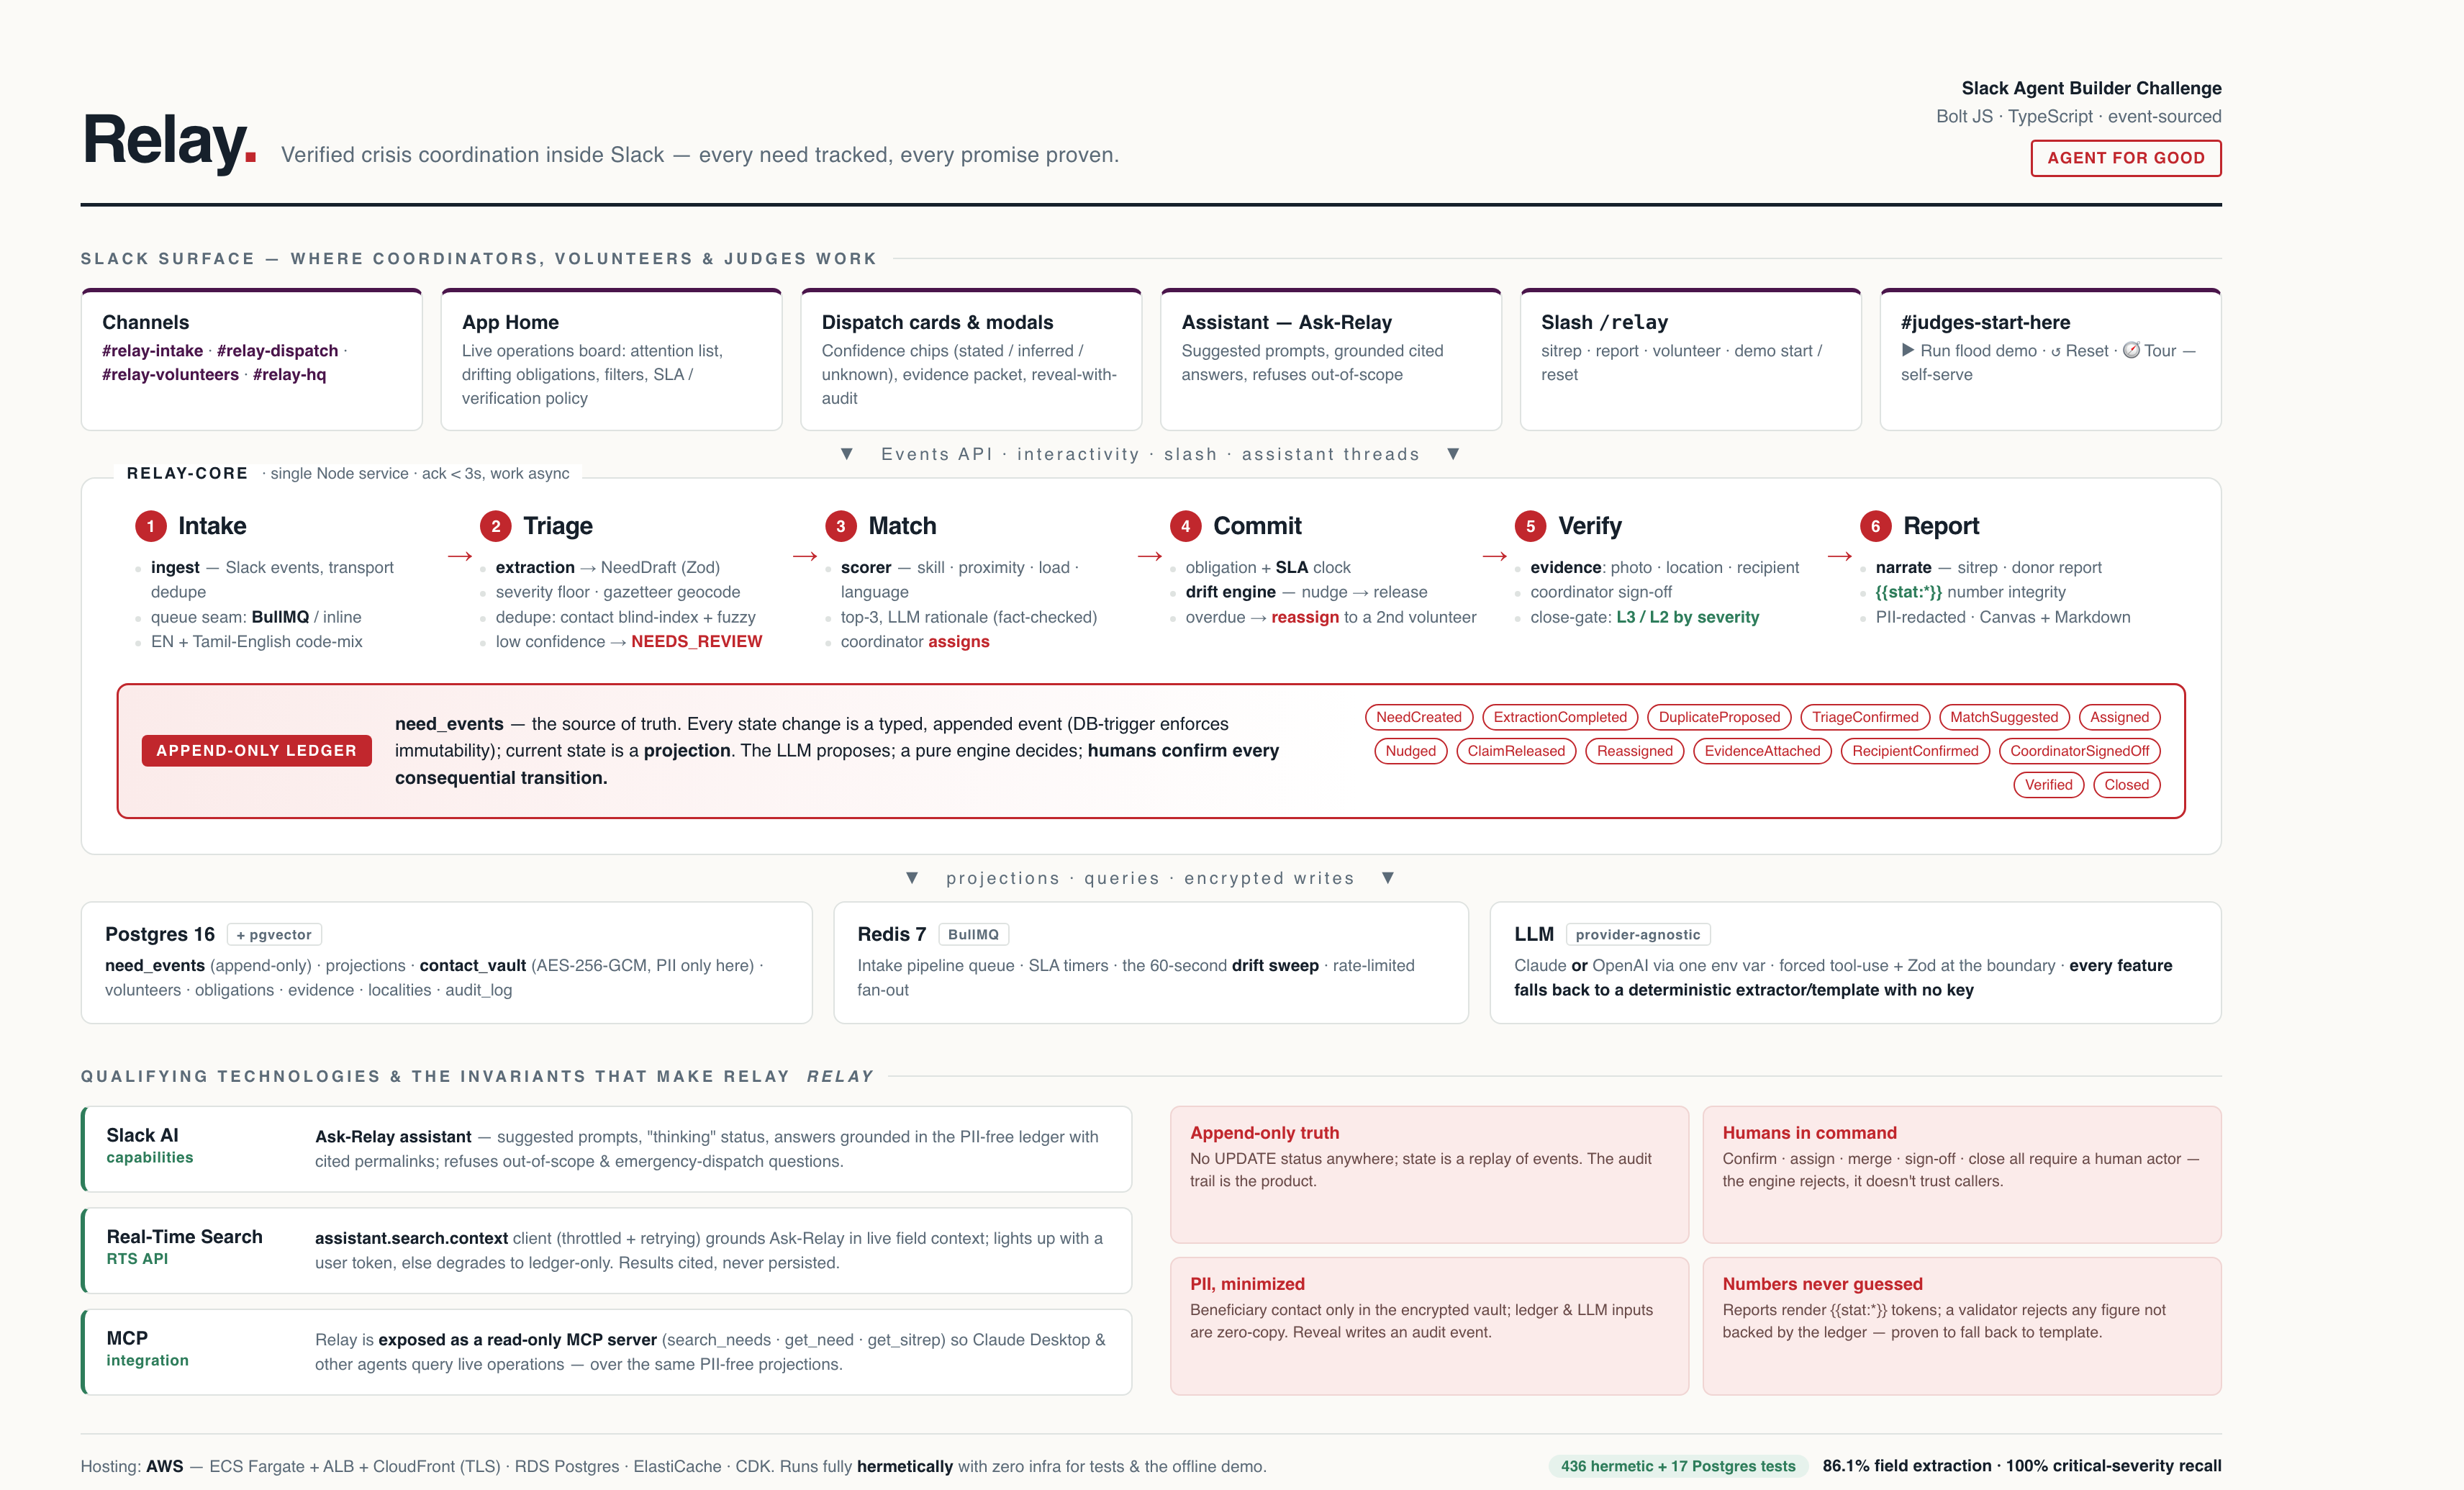
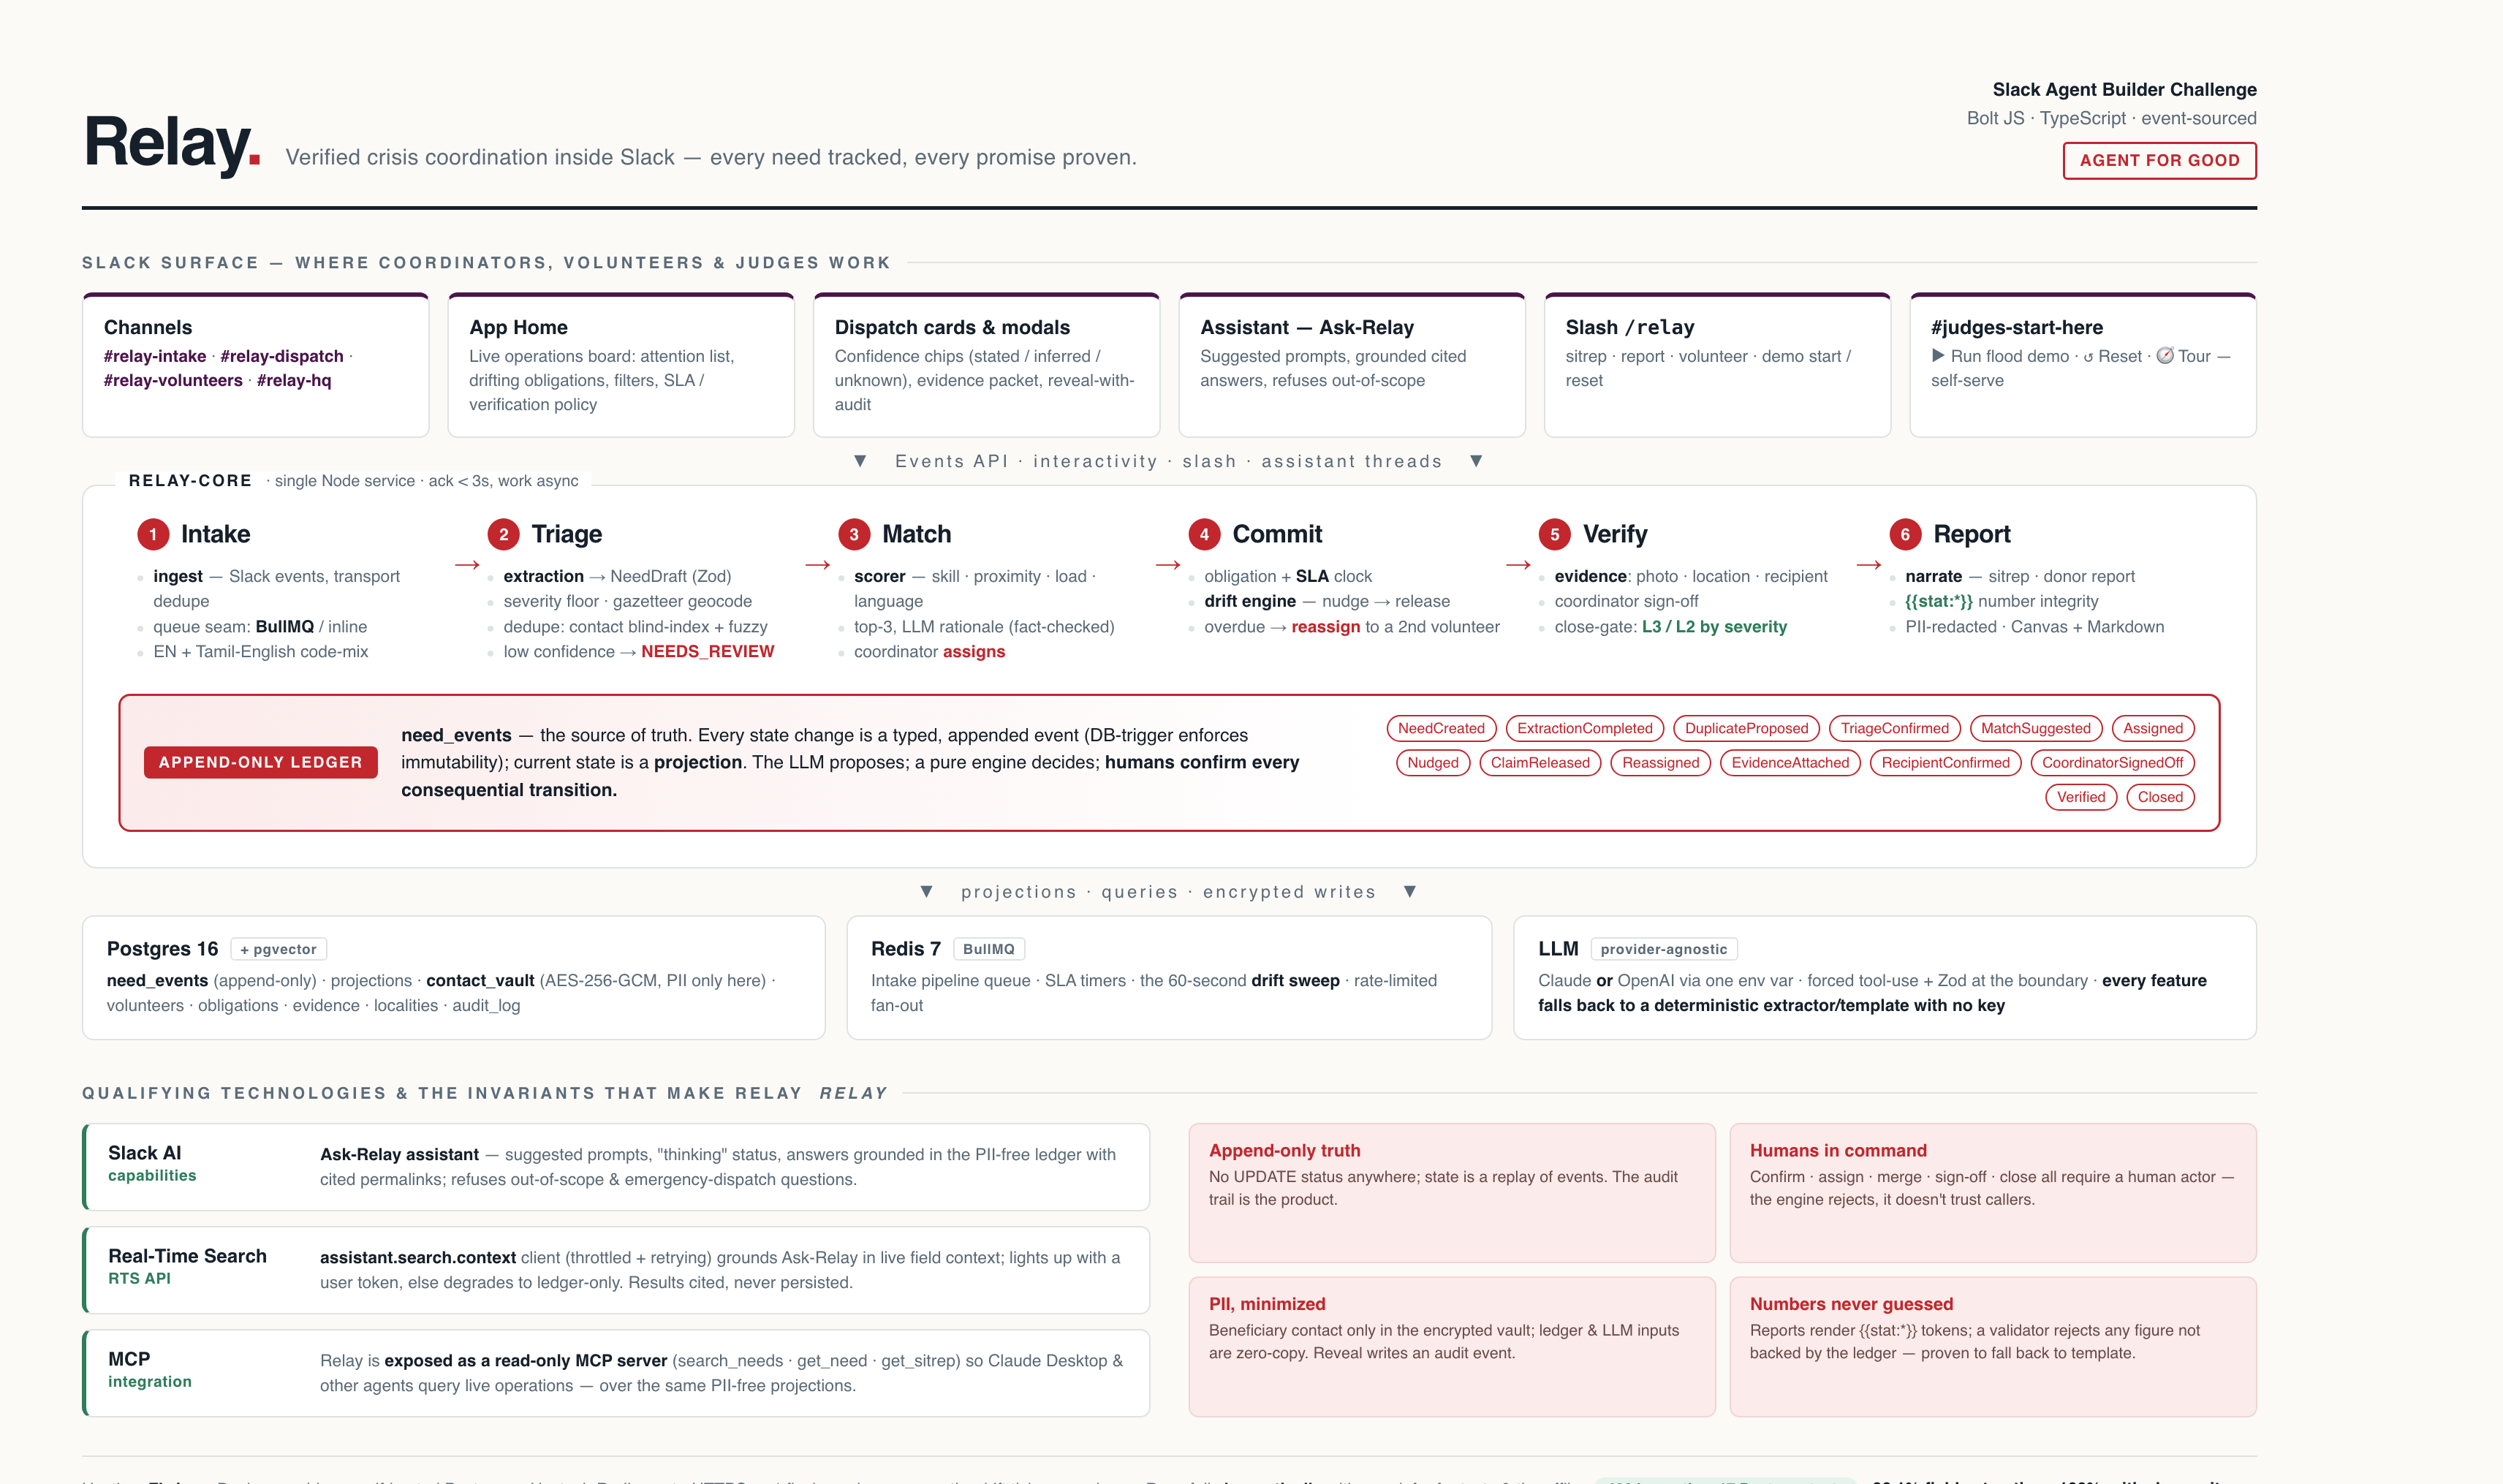
Move deployment from AWS to Fly.io (AWS account-restricted)
pgvector is now OPTIONAL: migration 001 wraps CREATE EXTENSION vector in a
tolerant DO block and adds the embedding column + HNSW index only when pgvector
is installed; postgresStore detects needs.embedding at runtime and stays on
pg_trgm when absent. Proven: migrations 001+002+003 apply cleanly on a plain
postgres:16-alpine (no pgvector) and the store logs 'embedding dedupe disabled'
without throwing — so the app boots on a plain self-hosted Fly Postgres.

Fly config: fly.toml (relay-crisis, region sin, always-on min_machines_running=1
so the drift tick/scheduler never sleep, deep /healthz check, 1GB for
tsx-at-runtime) + docs/DEPLOY.md runbook. CloudFront dropped — Fly gives *.fly.dev
HTTPS out of the box. deploy.yml rewritten for flyctl (FLY_API_TOKEN-gated).
manifest.prod → relay-crisis.fly.dev. All AWS hosting claims updated to Fly
across README/BUILD-DOC/SUBMISSION/SETUP/CLAUDE + the architecture diagram; the
AWS CDK in infra/ retained as an archived, portable alternative.

~$10-13/mo all-Fly vs ~$55/mo AWS. 436 hermetic + 17 integration tests green.

diff --git a/src/ledger/store/postgresStore.ts b/src/ledger/store/postgresStore.ts
@@ -1,4 +1,5 @@
 import pg from 'pg';
+import { logger } from '../../lib/logger';
 import { assertNoRawContent, type NeedEvent } from '../events';
 import type { Actor, ActorType, ProjectionCache } from '../types';
 import { ConcurrencyError } from './errors';
@@ -40,6 +41,13 @@ const INSERT_EVENT = `INSERT INTO need_events
  */
 export class PostgresEventStore implements EventStore {
   private readonly pool: pg.Pool;
+  /**
+   * Whether needs.embedding exists — i.e. pgvector was present at migrate time (001 adds
+   * the column only when the `vector` extension installs). null = not yet detected. On a
+   * plain Postgres (self-hosted Fly) the column is absent, so the vector dedupe path is
+   * skipped and dedupe uses pg_trgm. Detected once via information_schema, then cached.
+   */
+  private hasEmbedding: boolean | null = null;
 
   constructor(opts: { connectionString?: string; pool?: pg.Pool } = {}) {
     this.pool = opts.pool ?? new Pool({ connectionString: opts.connectionString });
@@ -48,6 +56,30 @@ export class PostgresEventStore implements EventStore {
   /** Create the public_id sequence if needed (the schema migration owns the tables). */
   async init(): Promise<void> {
     await this.pool.query('CREATE SEQUENCE IF NOT EXISTS needs_public_seq START 1');
+    // Warm the pgvector-presence cache at boot so the mode is logged once and every
+    // later dedupe call is a cache hit. Never fatal: absence just means the pg_trgm path.
+    const hasEmbedding = await this.embeddingAvailable();
+    logger.info(
+      { hasEmbedding },
+      `postgres store: embedding dedupe ${hasEmbedding ? 'enabled' : 'disabled (pg_trgm)'}`,
+    );
+  }
+
+  /**
+   * Does the needs.embedding column exist? Queried once from information_schema and
+   * cached. When absent (no pgvector), callers skip the ::vector cast and the embedding
+   * SELECT so a missing column can NEVER throw — dedupe degrades to pg_trgm.
+   */
+  private async embeddingAvailable(): Promise<boolean> {
+    if (this.hasEmbedding === null) {
+      const res = await this.pool.query(
+        `SELECT 1 FROM information_schema.columns
+          WHERE table_schema = current_schema() AND table_name = 'needs' AND column_name = 'embedding'
+          LIMIT 1`,
+      );
+      this.hasEmbedding = (res.rowCount ?? 0) > 0;
+    }
+    return this.hasEmbedding;
   }
 
   private static rowToEvent(row: EventRow): NeedEvent {
@@ -221,7 +253,11 @@ export class PostgresEventStore implements EventStore {
       vals.push(keys.dedupeText);
       sets.push(`dedupe_text = $${vals.length}`);
     }
-    if (keys.embedding !== undefined) {
+    // Touch the embedding column ONLY when pgvector added it (see 001 migration). On a
+    // plain Postgres the column is absent; the embedding is silently ignored — the vector
+    // path is dormant without an embeddings key anyway — while contact_hash + dedupe_text
+    // still persist. contact_hash + dedupe_text are enough for the pg_trgm dedupe path.
+    if (keys.embedding !== undefined && (await this.embeddingAvailable())) {
       // pgvector accepts the textual form '[1,2,3]'; null clears the column.
       vals.push(keys.embedding === null ? null : `[${keys.embedding.join(',')}]`);
       sets.push(`embedding = $${vals.length}::vector`);
@@ -231,6 +267,12 @@ export class PostgresEventStore implements EventStore {
   }
 
   async findDedupeCandidates(q: DedupeCandidateQuery): Promise<DedupeCandidate[]> {
+    // Reference the embedding column only when pgvector added it; on a plain Postgres the
+    // column doesn't exist, so select a NULL placeholder — the JS cosine branch then stays
+    // off (both sides null) and dedupe falls back to the pg_trgm dedupe_text signal (see
+    // src/pipeline/dedupe.ts fuzzyScore). Behaviour is byte-identical when the column IS
+    // present. A constant, never user input — no injection surface.
+    const embeddingSelect = (await this.embeddingAvailable()) ? 'embedding' : 'NULL AS embedding';
     const res = await this.pool.query<{
       id: string;
       public_id: string;
@@ -239,7 +281,7 @@ export class PostgresEventStore implements EventStore {
       embedding: unknown;
       status: string;
     }>(
-      `SELECT id, public_id, contact_hash, dedupe_text, embedding, status
+      `SELECT id, public_id, contact_hash, dedupe_text, ${embeddingSelect}, status
          FROM needs
         WHERE type = $1
           AND status NOT IN ('DUPLICATE', 'CLOSED', 'CANCELLED', 'EXPIRED')

diff --git a/tests/integration/dedupe.integration.test.ts b/tests/integration/dedupe.integration.test.ts
@@ -13,6 +13,14 @@ import { migrate } from '../../src/lib/migrate';
 // findDedupeCandidates, plus the vector(1536) ::vector cast and pg_trgm). Skipped
 // unless DATABASE_URL is set. Needs are is_demo and purged in afterAll; the two
 // localities this file inserts are FK parents of those needs, deleted after the purge.
+//
+// This suite runs against pgvector (local docker compose, pgvector/pgvector:pg16), so the
+// embedding column exists and the vector path IS exercised here. pgvector is OPTIONAL in
+// production: on a plain Postgres (self-hosted Fly, no `vector` extension) 001 skips the
+// embedding column, and postgresStore guards both the ::vector write and the embedding
+// SELECT behind a cached column-presence check — dedupe degrades to pg_trgm and the app
+// still boots. That absent-pgvector branch is covered by the plain-Postgres migrate boot
+// check (see the verifier note), not by this suite (which needs pgvector present).
 const DB = process.env.DATABASE_URL;
 
 describe.skipIf(!DB)('Postgres dedupe (integration)', () => {

diff --git a/docs/architecture.html b/docs/architecture.html
@@ -224,7 +224,7 @@
   </div>
 
   <footer>
-    <div class="host">Hosting: <b>AWS</b> — ECS Fargate + ALB + CloudFront (TLS) · RDS Postgres · ElastiCache · CDK. Runs fully <b>hermetically</b> with zero infra for tests &amp; the offline demo.</div>
+    <div class="host">Hosting: <b>Fly.io</b> — Docker machine + self-hosted Postgres + Upstash Redis · auto-HTTPS on *.fly.dev · always-on so the drift tick never sleeps. Runs fully <b>hermetically</b> with zero infra for tests &amp; the offline demo.</div>
     <div><span class="pill green">436 hermetic + 17 Postgres tests</span> &nbsp; <span class="stamp">86.1% field extraction · 100% critical-severity recall</span></div>
   </footer>
 

diff --git a/docs/DEPLOY.md b/docs/DEPLOY.md
@@ -1,0 +1,152 @@
+# Relay — Fly.io deploy runbook
+
+The live, always-on target for the judging window (Jul 14 – Aug 6) is **Fly.io**.
+We moved off AWS because the AWS account is under an account-level restriction.
+
+Fly builds our repo-root `Dockerfile` and gives us an HTTPS `*.fly.dev` URL out of
+the box — so the old CloudFront layer (which existed only to hand Slack a TLS
+request URL) is dropped. Config lives in `fly.toml`. The archived AWS CDK stack is
+retained as a portable alternative under `infra/` (see `infra/README.md`).
+
+> None of this is needed for `npm test` / `npm run demo` — both run fully
+> hermetically with zero infra. This runbook is only for the hosted HTTP-mode app.
+
+## What runs where
+
+```
+Slack  ──https──▶  relay-crisis.fly.dev  (Fly machine, always-on, /healthz gated)
+                          ├─▶  Fly Postgres  (self-hosted, pgvector optional)
+                          └─▶  Upstash Redis (Fly extension, BullMQ)
+```
+
+- Auto-HTTPS on `*.fly.dev` — no CloudFront/ALB/cert to manage.
+- One machine pinned up (`min_machines_running = 1`, `auto_stop_machines = false`)
+  so the drift tick + BullMQ scheduler never sleep and the demo never cold-starts.
+- Schema migrations run on boot (`runStartupMigrations`, advisory-locked +
+  idempotent) before the app serves; a migration failure exits non-zero so a
+  schema-less machine never takes traffic.
+
+## Prerequisites
+
+```bash
+brew install flyctl        # or: curl -L https://fly.io/install.sh | sh
+fly auth login             # one browser round-trip; all resources on one account
+```
+
+## 1. Create the app
+
+```bash
+# From the repo root (fly.toml already declares app = 'relay-crisis'):
+fly apps create relay-crisis
+# — or, to let Fly reconcile the existing config without deploying yet:
+# fly launch --no-deploy --copy-config
+```
+
+## 2. Provision self-hosted Postgres
+
+Plain Fly Postgres is enough — Relay runs on it and dedupes via `pg_trgm`. The
+pgvector embedding path is **optional**: it activates only when `OPENAI_API_KEY`
+is set *and* the Postgres has the `vector` extension. Without either, dedupe falls
+back to `pg_trgm` and the app is fully functional.
+
+```bash
+fly postgres create --name relay-db --region sin --vm-size shared-cpu-1x --volume-size 10
+fly postgres attach relay-db --app relay-crisis
+# `attach` creates a DB user + sets the DATABASE_URL secret on relay-crisis.
+```
+
+To enable the embedding dedupe path later, exec into the pg instance and
+`CREATE EXTENSION vector;` (the boot migration also attempts it and degrades
+gracefully if the extension is unavailable).
+
+## 3. Provision Redis (Upstash — Fly extension)
+
+```bash
+fly redis create --name relay-redis --region sin
+# — or the extension form:
+# fly ext upstash-redis create --name relay-redis
+fly redis status relay-redis        # copy the redis:// URL
+fly secrets set REDIS_URL='redis://…' --app relay-crisis
+```
+
+The Upstash free tier is sufficient for demo/judging traffic.
+
+## 4. Set app secrets
+
+```bash
+fly secrets set --app relay-crisis \
+  SLACK_BOT_TOKEN='xoxb-…' \
+  SLACK_SIGNING_SECRET='…' \
+  OPENAI_API_KEY='sk-…' \
+  CONTACT_VAULT_KEY="$(openssl rand -hex 32)"
+```
+
+`DATABASE_URL` (step 2) and `REDIS_URL` (step 3) are already set. To use Claude
+instead of OpenAI, set `LLM_PROVIDER=anthropic` and `ANTHROPIC_API_KEY=sk-ant-…`
+(the seam handles it — see `src/llm/`). Setting secrets triggers a rolling
+restart, which is harmless before the first deploy.
+
+## 5. Deploy
+
+```bash
+fly deploy --remote-only        # builds the repo Dockerfile on Fly's builders
+```
+
+Migrations run automatically on boot — no separate migrate step. Watch the boot
+log to confirm `runStartupMigrations` completed and `/healthz` went green:
+
+```bash
+fly logs --app relay-crisis
+fly status --app relay-crisis
+```
+
+## 6. Point Slack at the Fly URL
+
+The app is served at **https://relay-crisis.fly.dev**. `manifest.prod.yaml`
+already targets that host (request URL `https://relay-crisis.fly.dev/slack/events`).
+Update the prod Slack app from the manifest (App config → App Manifest → paste),
+verify the Request URL, and reinstall if scopes changed.
+
+Health check:
+
+```bash
+curl -i https://relay-crisis.fly.dev/healthz     # 200 when pg + redis are reachable
+```
+
+## CI deploys
+
+`.github/workflows/deploy.yml` deploys on push to `main` touching `fly.toml`,
+`src/**`, or `Dockerfile` (and on manual `workflow_dispatch`). Set the deploy
+token once:
+
+```bash
+fly tokens create deploy -x 999999h        # or: fly auth token
+# → GitHub → repo Settings → Secrets and variables → Actions → new secret
+#   FLY_API_TOKEN = <the token>
+```
+
+The deploy step is guarded on `FLY_API_TOKEN` being present, so the workflow is a
+no-op on forks / until the secret is configured.
+
+## Cost estimate (~monthly)
+
+| Resource | Spec | Est. USD/mo |
+|---|---|---|
+| App machine | shared-cpu-1x / 1 GB, always-on | ~$5–6 |
+| Fly Postgres | shared-cpu-1x, 10 GB volume | ~$3–5 |
+| Upstash Redis | free tier | $0 |
+| **Total** | | **~$10–13/mo** |
+
+Roughly 5× cheaper than the old AWS stack (~$55/mo), and no NAT/ALB/CloudFront to
+reason about.
+
+## Teardown
+
+```bash
+fly apps destroy relay-crisis
+fly postgres detach relay-db --app relay-crisis   # if the app still exists
+fly apps destroy relay-db
+fly redis destroy relay-redis
+```
+
+Clean and complete — appropriate for a hackathon, not for production data.

diff --git a/docs/SETUP.md b/docs/SETUP.md
@@ -76,9 +76,21 @@ npm run eval             # extraction eval harness (needs the LLM key once P-1 l
 npm run scenario:lint    # validate scenario + eval set schemas
 ```
 
-## 8. Production (AWS) — later
+## 8. Production (Fly.io) — later
 
-Infra is code-complete in `infra/` (see `infra/README.md`). Deploy when the app is
-functional (~Day 2–3): `cd infra && npx cdk bootstrap && npx cdk deploy RelayStack RelayCiStack`.
-Then set the four Secrets Manager values, point `manifest.prod.yaml` at the CloudFront
-domain, and switch to the HTTP-mode prod app.
+The live host is **Fly.io** (AWS is account-restricted for this project). Full
+runbook: **`docs/DEPLOY.md`**. In short, from the repo root:
+
+```bash
+fly auth login
+fly apps create relay-crisis
+fly postgres create --name relay-db --region sin && fly postgres attach relay-db --app relay-crisis
+fly redis create --name relay-redis --region sin   # → set REDIS_URL secret
+fly secrets set --app relay-crisis SLACK_BOT_TOKEN=… SLACK_SIGNING_SECRET=… OPENAI_API_KEY=… CONTACT_VAULT_KEY="$(openssl rand -hex 32)"
+fly deploy --remote-only                            # migrations run on boot
+```
+
+`manifest.prod.yaml` already points at `https://relay-crisis.fly.dev/slack/events`;
+update the prod Slack app from the manifest and switch to the HTTP-mode app. The
+AWS CDK in `infra/` is retained only as a portable alternative (~$55/mo vs Fly's
+~$10–13/mo).

diff --git a/docs/BUILD-DOC.md b/docs/BUILD-DOC.md
@@ -267,7 +267,7 @@ Bolt-JS app (Node + TypeScript, single service "relay-core")
    └─ demo/          injector · reset · judge-tour handlers
 Postgres 16 (+ pgvector for dedupe embeddings) · Redis (BullMQ)
 Anthropic API (Claude) · Slack Web API
-Hosting: AWS (ECS Fargate + ALB + CloudFront, RDS, ElastiCache — see infra/) · UptimeRobot on /healthz (deep probe: `GET /healthz` actually queries Postgres + PINGs Redis and returns 503 when a wired dependency is down, so a dead pg/redis pulls the task from rotation instead of reporting a static 200). Schema migrations run on boot (`runStartupMigrations`, advisory-locked + idempotent) before the app serves; a migration failure exits non-zero so a schema-less task never takes traffic.
+Hosting: Fly.io (always-on Docker machine `min_machines_running=1` + self-hosted Fly Postgres + Upstash Redis, auto-HTTPS on `*.fly.dev` — see `fly.toml` + `docs/DEPLOY.md`; the AWS CDK in `infra/` is archived as a portable alternative because AWS is account-restricted) · UptimeRobot on /healthz (deep probe: `GET /healthz` actually queries Postgres + PINGs Redis and returns 503 when a wired dependency is down, so a dead pg/redis pulls the machine from rotation instead of reporting a static 200). Schema migrations run on boot (`runStartupMigrations`, advisory-locked + idempotent) before the app serves; a migration failure exits non-zero so a schema-less machine never takes traffic.
 ```
 
 ### 9.2 Non-negotiable engineering rules
@@ -288,7 +288,7 @@ See `db/migrations/001_init.sql` (raw SQL is the contract; raw `pg` driver, no O
 
 ### 9.5 App manifests
 
-`manifest.dev.yaml` (Socket Mode, local dev) · `manifest.prod.yaml` (HTTP mode, request URLs = CloudFront domain from `infra/`).
+`manifest.dev.yaml` (Socket Mode, local dev) · `manifest.prod.yaml` (HTTP mode, request URLs = the Fly host `https://relay-crisis.fly.dev/slack/events` — see `docs/DEPLOY.md`).
 
 ---
 
@@ -456,7 +456,7 @@ Daily 10:00 sync (15 min) + 21:30 demo-path run · the **demo path is sacred**: 
 | Tamil-English extraction < 80% | M×H | §10.3 decision gate Jul 8; English-led demo path ready |
 | Slack rate limits garble injector | M×M | Shared token bucket; 40s spread; rehearsed ×10 |
 | Live-demo LLM latency on camera | H×M | Pre-warm; placeholder→update pattern reads as "thinking"; video allows retakes; judges get compressed SLAs not live LLM races |
-| Hosting sleeps mid-judging | L×H | Always-on ECS service + UptimeRobot + daily smoke calendar |
+| Hosting sleeps mid-judging | L×H | Fly always-on (`min_machines_running=1`, `auto_stop_machines=false`) + UptimeRobot on `/healthz` + daily smoke calendar |
 | Photo GPS assumptions fail | H×M | Designed out — explicit locality confirm (§F5) |
 | Scope creep past freeze | H×H | Freeze ritual + two-person rule + cut lines |
 | Devpost/deadline-day outage | L×H | Submit Jul 12; confirmation archived |

diff --git a/infra/README.md b/infra/README.md
@@ -1,5 +1,11 @@
 # Relay Infrastructure (AWS CDK)
 
+> **ARCHIVED — not the live deploy.** AWS is account-restricted for this project,
+> so the live host is **Fly.io** (see `docs/DEPLOY.md` + `fly.toml` at the repo
+> root). This CDK stack is retained as reference / a portable alternative — it is
+> code-complete but not what serves the judging window. Everything below describes
+> the AWS path only.
+
 Always-on, cost-guarded AWS hosting for Relay. Infrastructure-as-code so the
 hackathon judging window (Jul 14 – Aug 6) has a stable, reproducible target.
 

diff --git a/README.md b/README.md
@@ -34,7 +34,9 @@ No keys yet? `npm test` (hermetic, zero infra) and `npm run demo` (in-memory end
 3. Create the channels `#relay-intake` `#relay-dispatch` `#relay-volunteers` `#relay-hq` `#judges-start-here` and **`/invite @relay` into each** (message events only fire for channels the bot is in).
 4. Put `SLACK_BOT_TOKEN`, `SLACK_SIGNING_SECRET`, and an app-level `SLACK_APP_TOKEN` (connections:write) in `.env`.
 
-Production runs the `manifest.prod.yaml` app in HTTP mode on AWS (see `infra/`).
+Production runs the `manifest.prod.yaml` app in HTTP mode on **Fly.io** — a Docker
+machine (always-on) with self-hosted Fly Postgres + Upstash Redis and auto-HTTPS on
+`*.fly.dev` (see `docs/DEPLOY.md`).
 
 ## Commands
 
@@ -78,6 +80,7 @@ With no `DATABASE_URL` the server seeds an in-memory demo flood so the tools ret
 ## Docs
 
 - `docs/BUILD-DOC.md` — full build document (product spec, state machine, compliance rules)
+- `docs/DEPLOY.md` — Fly.io production deploy runbook (`fly.toml`)
 - `CLAUDE.md` — engineering invariants (append-only ledger, human gates, PII rules)
 - Architecture diagram: `docs/architecture.png` *(added before submission)*
 

diff --git a/CLAUDE.md b/CLAUDE.md
@@ -45,7 +45,7 @@ Relay is a Slack-native agent for volunteer crisis response: **Intake → Triage
 - `src/demo/` — injector, reset, seed, storyboard driver
 - `src/llm/` — provider seam (structured outputs), per-task model config, prompts P-1..P-7 in `src/llm/prompts/`
 - `src/lib/` — logger, migrate, ids, safeLog, vault crypto
-- `eval/` — labeled intake set + gates; `demo/scenarios/` — injector scripts; `seed/` — gazetteer + roster; `infra/` — AWS CDK
+- `eval/` — labeled intake set + gates; `demo/scenarios/` — injector scripts; `seed/` — gazetteer + roster; `fly.toml` + `docs/DEPLOY.md` — Fly.io deploy (live host); `infra/` — archived AWS CDK (reference alt; AWS is account-restricted)
 
 ## Reuse provenance — port, don't import
 

diff --git a/docs/SUBMISSION.md b/docs/SUBMISSION.md
@@ -38,6 +38,7 @@ Relay uses **all three**, each with a real job.
 - **Measured, reproducible quality.** On a 40-message labelled set (`npm run eval`): **86.1% field-level extraction accuracy, 100% critical-severity recall, 100% contact/locality accuracy.**
 - **Provider-agnostic LLM.** Claude or OpenAI via one env var; forced tool-use + Zod at the boundary. **Every AI feature falls back to a deterministic extractor/template with no key**, so the whole product — and the offline demo — runs with zero configuration.
 - **Tested.** 436 hermetic unit tests (zero infra) + 17 Postgres integration tests. TypeScript strict, event-correlated structured logs.
+- **Hosting: Fly.io** — an always-on Docker machine + self-hosted Postgres + Upstash Redis, with auto-HTTPS on `*.fly.dev`. One machine is pinned up so the SLA drift tick and scheduler never sleep and the demo never cold-starts; a deep `/healthz` probe (real pg query + Redis PING) gates rotation, and schema migrations run on boot. The whole product still runs **fully hermetically with zero infra** for `npm test` and the offline demo.
 
 ## Design
 